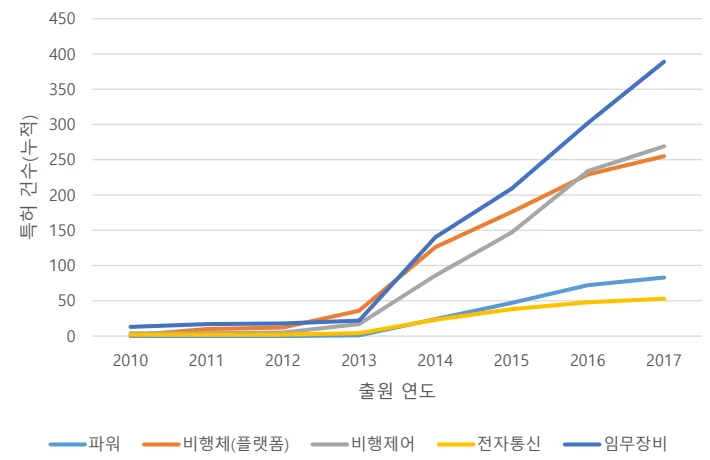
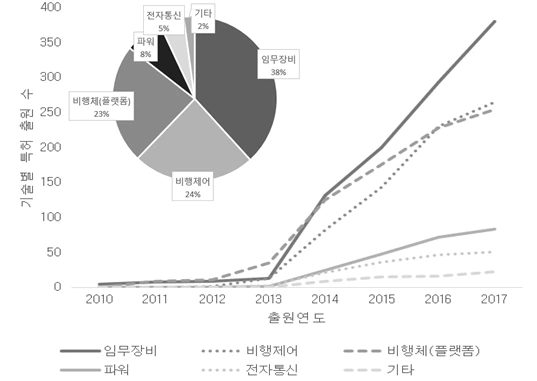
200104 저자 검수 반영: 수치·표5·그림 정정 (김혜주)
원문(fulltext):
- 표5 출원주체별 인용건수: 저자 정정본으로 재제작(기업 72.3%·개인 17.4%·대학 7.5%·
  공공 2.8%, 국가별 37/27.4/22.7/7.9/2/3%) — 구 표(62.3% 등·대학 국가분해) 대체
- 본문 % 수치 동일 정정, 표2 캡션 'IPC 별 DJI 특허 현황(상위 5개)'로
- 그림2(기술별 출원 누적건수): 저자 제공 신규 차트로 교체
- 그림 오배치 교정: 그림1↔매출차트(fig1), 그림2 자리의 네트워크맵 제거,
  그림5를 물리학(G) 네트워크(f-024-004)로, 고아 figure 제거

요약(cases):
- 인용 % 4건 정정(62.3→72.3, 23.7→17.4, 10.2→7.5, 3.8→2.8)
- 저자 요청 문장 재구성 2건(— 대시 제거: R&D 투자 문장, 미국특허 인용 문장)

검수자료: itm-cases/수정의견/김혜주_원문·웹페이지 수정 요청. 수정본 docx 재생성 완료.

diff --git a/fulltext/200104/index.html b/fulltext/200104/index.html
@@ -74,8 +74,8 @@
 <h2>제 2 장 연구대상</h2>
 <h3>2.1 DJI의 성장</h3>
 <p>DJI(大疆创新, SZ DJI Technology Co., Ltd.)는 2006 년, 왕타오(Frank Wang)가 중국 선전에서 설립된 회사로, 세계적인 드론 연구개발 및 생산기업이다. 뛰어난 드론 제조 기술과 R&amp;D 역량, 세련된 디자인, 경쟁력 있는 가격으로 드론 시장에서 독보적인 위치를 점하고 있으며, 출시하는 제품마다 시장에 새로운 표준을 제시하고 있다. 드론 핵심부품인 FC(Flight Controller)를 제작하는 일부터 시작해서 인공지능과 자체 정보처리 기능을 탑재한 완제품 제작까지 단 3년만이 소요되었을 정도로 DJI는 놀라운 혁신을 이루었다(Ito Asei, 일본 도쿄대 사회과학연구소). DJI는 전체 종업원의 33%에 해당 하는 2600여명을 전문 연구 인력으로 구성하고, 매년 매출액의 7%를 R&amp;D에 투자하는 등 기술력 확보를 최우선으로 하는 기업의 원칙을 고수하고 있다. 이는 “덩치가 커져도 연구 인력 비중 3분의 1을 유지한다”는 CEO의 철학에서도 확인할 수 있다. 이러한 연구개발의 성과로 DJI는 평균 5~6개월마다 혁신적인 제품을 내놓고 있으며, 중국의 대표적인 유니콘기업으로 떠올랐다(송재두, 2018). 창업 초기 불과 10여명이었던 직원 수는 10여년 만에 8,000명을 넘었다. DJI는 2010년 300만위안의 매출에서 2013년 8억 위안, 2015년에는 10억달러를 돌파, 2017년에는 28.3억달러를 달성하며 무서운 속도로 성장했다.</p>
-<p class="ftcap">&lt;그림 2&gt; DJI 매출(단위: billion)</p>
-<figure class="ftfig"><img src="img/fig2.webp" alt=""></figure>
+<p class="ftcap">&lt;그림 1&gt; DJI 매출(단위: billion)</p>
+<figure class="ftfig"><img src="img/fig1.webp" alt=""></figure>
 <p>(DJI는 비상장사로 매출정보는 각종 언론사 보도자료 등을 종합) 2014년에 발표한 골드만삭스의 자료에서도 DJI는 세계 상업용 드론시장의 70%를 점유하며 2위 기업인 Parrot을 큰 격차로 따돌리고 있다는 것을 확인할 수 있다. 드론시장 조사업체 DRONII에 따르면 2019년 미국 드론 시장 점유율에서 DJI가 차지하는 비율은 무려 76.8%에 달한다.</p>
 <h3>2.2 DJI의 제품개발과 시장창출</h3>
 <p>DJI는 혁신적인 제품개발을 통해 시장을 개척해 왔다. DJI는 군수용에 국한되어 있던 협소한 드론 시장을 개인〮산업〮공공의 민수용품으로 확장시켰다. 초보자도 사용하기 편리하게 UI/UX를 제고하여 소비자층을 전문가에서 비전문가로 확대했다. 초기 드론 분야는 완제품이라는 개념이 없었고, 개인이 부품을 찾아 조립하고 필요한 소프트웨어 코드를 직접 다운로드 받아야 하는 등 DIY 방식이 주를 이루고 있어 소비자들의 편의성이 매우 낮았다(Fobes, 2015). DJI는 별도의 조립 없이 바로 비행이 가능하고, 각종 센서와 조종 송수신기, 카메라와 영상 송수신기까지 장착한 일체형 완제품 드론인 팬텀을 출시하여 소비자의 큰 반향을 불러일으켰다. DJI는 영상촬영 드론에 특화된 비행제어기술, 방진기술, 카메라 기술 등 핵심 기술의 자체개발에 성공했으며, 최근 모션 인식 등의 차세대 드론 기술개발에도 적극적으로 투자하고 있다(백서인, 손은정, 김지은, 2019). 이뿐 아니라 산업전방위로 사업영역을 넓히고 있다. 밸류체인 구조를 살펴보면, DJI는 드론산업의 업스트림(원자재, 부품생산 제조), 미들스트림(시스템 모듈, 주변시설과 드론 완제품의 연구 개발과 제조), 다운스트림(각종 서비스)에 이르기까지 거의 전 분야에서 활약하고 있다(艾瑞咨询(2016)). 최근 DJI는 드론 플랫폼을 개발하여 토탈 솔루션 기업으로 큰 성장의 흐름을 이어가고 있다. 정보를 취합하는 사업영역에서 드론은 매우 효율적인 도구이기에 DJI는 플랫폼 기업으로 성장할 잠재력을 가지고 있다. DJI는 SDK(Software Development Kit: 소프트웨어 개발도구) 개발 플랫폼을 제공하여 전세계 개발자들이 DJI 플랫폼에 모이도록 한다. 비행작업을 수행하고 데이터를 관리하는 스테이션 프로(GS Pro), 산업용 드론 통합관리를 위한 플라이트 허브(Flight Hub), 지형데이터 맵핑 및 분석 소프트웨어인 DJI 테라(DJI Terra) 등을 공개하며 드론 플랫폼 생태계를 확장하고 있다. 기업은 이러한 솔루션을 활용하여 에너지, 안전, 건설 등의 다양한 임무에 DJI 드론을 활용하고 있다.</p>
@@ -89,7 +89,7 @@
 <figure class="ftfig"><img src="img/t1.webp" alt=""></figure>
 <p>국가별 특허출원 수는 중국이 39%로 가장 많았고, 미국이 29% 일본 26% 유럽이 5%로 나타났다. 초기에는 자국(중국) 출원이 다수를 차지하였으나, 2016 년 이후 중국 단독 특허 수는 거의 증가하지 않았다. 점차 시간이 갈수록 자국 단독 특허 없이 바로 PCT 로 출원하고 이후 재차 미국에 출원하는 형태로 출원 전략을 변경하며 실제 드론 시장에서의 법적 보호를 강화해 나간 것으로 보인다. DJI 가 본격적으로 제품을 내놓으며 특허가 급증하는 시기인 2014년 이후로 미국 특허가 빠르게 증가하는 것을 볼 수 있었다. 특허는 속지주의의 원칙상 반드시 특허권을 획득하고자 하는 나라에 출원하여 권리를 취득해야 해당국에서 독점적, 배타적 권리를 확보할 수 있다. 이를 고려했을 때 미국을 전략적인 시장으로 고려하여 미국 진출을 주요하게 판단한다는 것을 알 수 있다. 결과적으로 2015 년 당시에 DJI 매출의 70%는 아시아 밖의 지역에서 올리고 있었고, 2017년 해외매출액의 비중은 전체 매출의 80%를 차지했다(Shao, 2015; 오광진, 2018).</p>
 <p>DJI 가 출원한 특허를 메인 IPC 로(IPC 4 자리) 분류해 빈도수가 많은 순서로 정렬해 보았다. IPC 기반의 분석에 따르면 DJI 의 특허는 기본적으로 비행분야(B64), 통신분야(H04), 제어조정 분야(G05), 전자사진 분야(G03), 기계요소 분야(F16)에 집중되어 있음을 확인할 수 있다. B64 는 ‘항공기; 비행; 우주공학’ 기술로 경항공기, 비행기, 헬리콥터 등에 대한 기술을 포함하고 있다. 해당 코드(B64)에서 출원한 특허가 22%에 달했는데, DJI 의 드론기술이 비행체의 경량화와 배터리의 지속성, 속도·조종 등 항공비행 기술과 상당히 유사하기 때문인 것으로 볼 수 있다. H04 는 ‘전기통신기술’로 방송통신, 무선통신 네트워크를 포함하며, G05 는 ‘제어;조정’으로 무선항행 시스템의 주파수를 조정하는 조정계를 포함하고 있다. F16 로 구분된 특허는 드론을 지지하는 장비에 관한 특허였다.</p>
-<p class="ftcap">&lt;표 2&gt; 메인 IPC 별 DJI 특허 현황</p>
+<p class="ftcap">&lt;표 2&gt; IPC 별 DJI 특허 현황(상위 5개)</p>
 <figure class="ftfig"><img src="img/t2.webp" alt=""></figure>
 <h3>3.3 기술별 분석</h3>
 <p>DJI 의 보유 특허 현황을 더욱 깊이 살펴보기 위해 특허법률사무소의 자료를 참고하여 기술분류포를 도출했다.</p>
@@ -98,7 +98,7 @@
 <figure class="ftfig"><img src="img/t3b.webp" alt=""></figure>
 <p>검색을 통해 도출된 DJI 의 특허를 &lt;표3&gt;을 기준으로 파워, 비행체(플랫폼), 비행제어, 전자통신, 임무장비, 지상지원장비, 서비스 이상 7 개의 기술항목으로 분류한 후, 무인기본체의 5 개 주요 기술의 연도별 출원 경향을 살펴보았다. 분석 결과, 임무장비 기술과 관련된 특허가 약 38.3%로 가장 많았으며, 비행제어(23.9%), 비행체(플랫폼)(23.4%), 파워(7.5%), 전자통신(4.8%) 특허가 그 뒤를 따랐다.</p>
 <p class="ftcap">&lt;그림 2&gt; DJI 기술별 특허 출원 누적건수</p>
-<figure class="ftfig"><img src="img/f-023-002.webp" alt=""></figure>
+<figure class="ftfig"><img src="img/fig2.webp" alt=""></figure>
 <p>DJI 특허 건수의 증가와 함께 특허 분야도 확장되고 있음을 알 수 있었다. 기술별 특허출원 누적건수를 보면 2013 년까지 비행체(플랫폼) 관련 하드웨어 구성에 대한 출원이 많았으나, DJI 가 본격적으로 특허출원에 열을 올리기 시작한 2014년 이후로는 임무장비기술이 전체 출원 건수를 견인하고 있다. 센서, 카메라(촬영), 짐벌, 분사장치, 데이터 저장 장치 등에 대한 관심이 높아지고 있음을 알 수 있다. 향후 DJI 의 임무장비 융합기술에 대한 지식재산권 생산이 지속적으로 증가하고, 이것을 드론 관련 서비스에 활용할 것으로 예측할 수 있다.</p>
 <p>임무장비로 분류된 특허의 내용을 구체적으로 살펴보면 카메라, 짐벌 등 촬영기술에 대한 특허가 압도적이다. 2015 년 이후로는 순수 이미지처리 및 데이터 저장기술 등 소프트웨어 기술도 다수 출원이 진행되었다. 분사장치 등 농업용 임무장비에 관한 기술 출원도 점차 증가하고 있으며, 조종기 등 지상지원장비 기술 특허도 점차 비중이 커지고 있는 추세이다. 소수이지만 드론을 활용한 가상 관광(Virtual Sightseeing) 등 서비스에 관한 특허출원도 눈에 띈다. 점차 DJI 의 특허 적용 대상이 드론 제작에 한정되지 않는 포괄적인 기술 내용을 포함해가고 있음을 보여준다.</p>
 <h3>3.4 인용특허 네트워크 분석</h3>
@@ -108,10 +108,9 @@
 <p>이러한 인용, 피인용 특허 비중은DJI의 기술이 원천기술의 성격보다는 선행기술과 연계하여 응용/개량적으로 개발된 기술의 성격이 강하다는 것을 의미한다. 인용 특허의 비중이 높은 것은 항공기 제작기술 등 기존 기술에 대한 특허 인용이 많기 때문이다. 소형 드론은 항공기 및 군용 무인기의 항법, 제어 및 하드웨어 설계, 제작기술을 기반으로 한다. 민간 상업용 드론 산업은 비교적 새로운 분야이지만 기존의 항공우주분야의 원천기술과 상당히 유사하여 범위가 확장된 응용/개량 기술이라는 측면으로도 생각할 수 있다.</p>
 <p class="ftcap">&lt;표 4&gt; 기술성숙도별 특허 수(비중)</p>
 <figure class="ftfig"><img src="img/t4.webp" alt=""></figure>
-<p>(백서인 외 5 인, 2018, 2018 년 중국(중화권) 첨단기술 모니터링 및 DB 구축사업 참고) 이번에는 DJI가 인용한 특허의 출원인을 구분하여 봄으로써 기술이 이동하며 발전하는 양태를 분석해보았다. 특허 데이터는 출원 주체에 의해 표명된 기술이기 때문에 혁신의 핵심 주체와 주체들 간 매개 관계를 분석하는데 유용하게 사용될 수 있다. DJI가 인용한 약 2만건의 특허를 출원인으로 분류했다. 출원인 분류 기준은 크게 기업, 대학, 공공연구소 및 정부기관, 개인으로 4가지이다. 세부적으로 기업과 대학은 국가별로 구분을 진행했고 분석결과는 &lt;표 5&gt;에 제시되어 있다. 출원인 식별이 불가능한 건수를 제외하고 총 18,638건을 분석한 결과 기업 특허를 인용한 경우가 62.3%로 가장 많았고, 개인이 23.7%, 대학이 10.2%, 공공연구소가 3.8%를 차지하고 있었다. 이를 통해 DJI의 기술 생성에 있어 기업의 역할이 가장 크다는 것을 파악할 수 있다. 기업 인용 특허 중 3분의 1 이상이 미국 기업의 특허였다. DJI 특허 1100여건이 미국 기업 특허 4900건 이상을 인용했다. 즉, DJI의 특허 1건 당 평균 4개의 미국 기술을 인용했다. 일본 기업의 특허 인용 비중도 3000건 이상으로 매우 높게 나타났다. DJI의 기술과 지식의 축적에 있어 자국(중국)을 제외한다면, 미국기업과 일본기업이 핵심적인 역할을 했음을 의미한다. 그 다음으로는 개인이 DJI의 기술 생성에 영향을 미쳤으며, 대학과 정부 및 연구소는 이에 비해 기술 지식의 교류가 적었다.</p>
+<p>(백서인 외 5 인, 2018, 2018 년 중국(중화권) 첨단기술 모니터링 및 DB 구축사업 참고) 이번에는 DJI가 인용한 특허의 출원인을 구분하여 봄으로써 기술이 이동하며 발전하는 양태를 분석해보았다. 특허 데이터는 출원 주체에 의해 표명된 기술이기 때문에 혁신의 핵심 주체와 주체들 간 매개 관계를 분석하는데 유용하게 사용될 수 있다. DJI가 인용한 약 2만건의 특허를 출원인으로 분류했다. 출원인 분류 기준은 크게 기업, 대학, 공공연구소 및 정부기관, 개인으로 4가지이다. 세부적으로 기업과 대학은 국가별로 구분을 진행했고 분석결과는 &lt;표 5&gt;에 제시되어 있다. 출원인 식별이 불가능한 건수를 제외하고 총 18,638건을 분석한 결과 기업 특허를 인용한 경우가 72.3%로 가장 많았고, 개인이 17.4%, 대학특허 인용이 7.5%, 공공연구소가 2.8%를 차지하고 있었다. 이를 통해 DJI의 기술 생성에 있어 기업의 역할이 가장 크다는 것을 파악할 수 있다. 기업 인용 특허 중 3분의 1 이상이 미국 기업의 특허였다. DJI 특허 1100여건이 미국 기업 특허 4900건 이상을 인용했다. 즉, DJI의 특허 1건 당 평균 4개의 미국 기술을 인용했다. 일본 기업의 특허 인용 비중도 3000건 이상으로 매우 높게 나타났다. DJI의 기술과 지식의 축적에 있어 자국(중국)을 제외한다면, 미국기업과 일본기업이 핵심적인 역할을 했음을 의미한다. 그 다음으로는 개인이 DJI의 기술 생성에 영향을 미쳤으며, 대학과 정부 및 연구소는 이에 비해 기술 지식의 교류가 적었다.</p>
 <p class="ftcap">&lt;표 5&gt; 출원 주체별 특허 인용건수</p>
-<figure class="ftfig"><img src="img/t5a.webp" alt=""></figure>
-<figure class="ftfig"><img src="img/t5b.webp" alt=""></figure>
+<figure class="ftfig"><img src="img/t5.webp" alt=""></figure>
 <p>특허의 건수가 증가함에 따라 인용문헌의 개수도 증가하는 추세를 보였다. 2014년에는 일본기업의 특허 인용건수가 많은데, 이것은 Canon과 같은 일본기업의 카메라 및 이미지 처리 기술에 대한 인용이 많기 때문이다. 미국의 경우 꾸준히 많은 건수의 인용문헌수가 확인되는데 이것을 더 자세히 들여다 보면, Honeywell, Boeing와 같은 항공우주 관련 기업과 글로벌 통신 기업들의 특허를 가장 많이 인용한 것으로 나왔다. DJI가 미국과 일본을 비롯한 외부로부터의 선행 특허기술을 적극적으로 인용했음을 알 수 있다. 또한 중국기업 인용건수의 높은 증가율이 눈에 띄는데, 이 중에서도 DJI 자사 인용문헌 수가 매우 높았다. DJI가 자사의 특허를 인용한 문헌수가 중국 전체 기업 특허를 인용한 수의 40% 이상이었으며, 매년 DJI 자사 인용 특허가 빠르게 증가하는 모습을 보였다. DJI가 미국, 일본 등 선진국의 드론 관련 기술지식을 흡수하고 핵심 기술을 확보한 후 자사 인용을 통해 권리를 강화해 나가는 것으로 짐작할 수 있다.</p>
 <p class="ftcap">&lt;그림 3&gt; 연도별 특허 인용건수 추이</p>
 <figure class="ftfig"><img src="img/fig3.webp" alt=""></figure>
@@ -120,9 +119,8 @@
 <p class="ftcap">&lt;그림 4&gt; 처리조작 기술(IPC: B) 네트워크 시각화</p>
 <figure class="ftfig"><img src="img/fig04auto.webp" alt=""></figure>
 <p>&lt;그림 5&gt;의 G(물리학) 기술 분류의 네트워크 분석에서는 제어, 조정과 측정기술의 빈도수가 가장 높았다. 해당 기술도 마찬가지로 미국기업과 연결되어 있는 링크의 굵기가 가장 굵은 것으로 확인되어, 미국기업의 기술지식 수용이 진행된 것을 확인할 수 있었다. 눈에 띄는 부분은 전자사진기술, 광학기술 부분으로 일본기업과의 연결관계가 가장 강하게 나타났다. 이는 드론의 항공 촬영기술과 직접적으로 연관되어 있는 기술이다. DJI가 촬영 기술과 관련된 부분은 일본기업에 강하게 영향 받았다는 것을 알 수 있다. 해당 분야는 일본이 전통적 강자임을 확인할 수 있었다.</p>
-<figure class="ftfig"><img src="img/f-025-006.webp" alt=""></figure>
 <p class="ftcap">&lt;그림 5&gt; 물리학 기술(IPC: G) 네트워크 시각화</p>
-<figure class="ftfig"><img src="img/f-026-008.webp" alt=""></figure>
+<figure class="ftfig"><img src="img/f-024-004.webp" alt=""></figure>
 <p>많았고 전력의 발전 기술도 다수 보였다. 전기통신기술은 화상통신, 촬영 데이터 관련 기술과 연관되어있다. 전기통신기술은 일본기업과의 연결관계가 가장 강하며, 미국기업과의 관계도 강하게 나타났다. 화상통신과 촬영 데이터 통신기술에 있어 일본과 미국기업이 중요한 기술을 보유하고 있음을 알 수 있었다. 전력의 발전은 드론의 배터리와 관련된 기술인데 해당 기술은 중국기업(중국기업+DJI) 기술의 인용이 가장 많았다. 일반적으로 드론은 리튬폴리머(LiPo) 배터리를 사용한다. 리튬폴리머는 점차 활용이 증가될 것으로 예측되는 차세대 전지이다. 인용 네트워크 분석을 통해 이 리튬폴리머 배터리 기술에서 중국이 높은 기술력과 경쟁력을 보유하고 있다는 것을 알 수 있다.</p>
 <p class="ftcap">&lt;그림 6&gt; 전기 기술(IPC: H) 네트워크 시각화</p>
 <figure class="ftfig"><img src="img/fig06auto.webp" alt=""></figure>

diff --git a/cases/200104.html b/cases/200104.html
@@ -78,7 +78,7 @@
 
 <h2>2. 연구대상: DJI의 성장과 시장창출</h2>
 <h3>2.1 DJI의 성장</h3>
-<p>DJI(SZ DJI Technology Co., Ltd.)는 2006년 왕타오(Frank Wang)가 중국 선전에서 설립한 드론 연구개발·생산기업이다. 드론 핵심부품인 FC(Flight Controller) 제작에서 시작해 인공지능과 자체 정보처리 기능을 탑재한 완제품 제작까지 단 3년 만에 도달했다. 전체 종업원의 33%에 해당하는 2,600여 명을 전문 연구 인력으로 구성하고 매년 매출액의 7%를 R&amp;D에 투자한다 — "덩치가 커져도 연구 인력 비중 3분의 1을 유지한다"는 CEO의 철학이다. 매출은 2010년 300만 위안에서 2013년 8억 위안, 2015년 10억 달러 돌파, 2017년 28.3억 달러로 무서운 속도로 성장했다. 2014년 골드만삭스 자료에서 DJI는 세계 상업용 드론시장의 70%를 점유하며 2위 Parrot을 큰 격차로 따돌렸고, 드론시장 조사업체 DRONII에 따르면 2019년 미국 드론 시장에서 DJI의 점유율은 무려 76.8%에 달한다.</p>
+<p>DJI(SZ DJI Technology Co., Ltd.)는 2006년 왕타오(Frank Wang)가 중국 선전에서 설립한 드론 연구개발·생산기업이다. 드론 핵심부품인 FC(Flight Controller) 제작에서 시작해 인공지능과 자체 정보처리 기능을 탑재한 완제품 제작까지 단 3년 만에 도달했다. 전체 종업원의 33%에 해당하는 2,600여 명을 전문 연구 인력으로 구성하고, 매년 매출액의 7%를 R&amp;D에 투자하는 등 기술력 확보 최우선 원칙을 고수한다. "덩치가 커져도 연구 인력 비중 3분의 1을 유지한다"는 것이 CEO의 철학이다. 매출은 2010년 300만 위안에서 2013년 8억 위안, 2015년 10억 달러 돌파, 2017년 28.3억 달러로 무서운 속도로 성장했다. 2014년 골드만삭스 자료에서 DJI는 세계 상업용 드론시장의 70%를 점유하며 2위 Parrot을 큰 격차로 따돌렸고, 드론시장 조사업체 DRONII에 따르면 2019년 미국 드론 시장에서 DJI의 점유율은 무려 76.8%에 달한다.</p>
 
 <h3>2.2 DJI의 제품개발과 시장창출</h3>
 <p>초기 드론 분야는 완제품 개념이 없어 개인이 부품을 조립하고 소프트웨어 코드를 직접 다운로드해야 하는 DIY 방식이 주를 이뤘다. DJI는 별도의 조립 없이 바로 비행이 가능하고 각종 센서, 조종 송수신기, 카메라와 영상 송수신기까지 장착한 일체형 완제품 드론 '팬텀'을 출시해 큰 반향을 불러일으켰다. 군수용에 국한되어 있던 협소한 드론 시장을 개인·산업·공공의 민수용품으로 확장시키고, 소비자층을 전문가에서 비전문가로 넓힌 것이다. 최근에는 SDK 개발 플랫폼과 GS Pro, 플라이트 허브(Flight Hub), DJI 테라(DJI Terra) 등을 공개하며 드론 플랫폼 생태계를 확장하는 토탈 솔루션 기업으로 성장하고 있다.</p>
@@ -92,7 +92,7 @@
 
 <h3>3.4.1 인용특허 양적 분석 — 응용·개량기술과 외부지식의 흡수</h3>
 <p>DJI의 총 인용문헌수는 약 2만 건, 피인용문헌수는 약 5천 건으로 인용문헌수가 4배가량 많았다. 이는 DJI의 기술이 원천기술보다는 선행기술과 연계하여 응용·개량적으로 개발된 기술의 성격이 강하다는 것을 의미한다. 소형 드론은 항공기 및 군용 무인기의 항법, 제어 및 하드웨어 설계, 제작기술을 기반으로 하기 때문이다.</p>
-<p>인용특허의 출원인을 분류하면 기업 특허 인용이 62.3%로 가장 많았고 개인 23.7%, 대학 10.2%, 공공연구소 3.8% 순이었다. 기업 인용 특허 중 3분의 1 이상이 미국 기업의 특허로, DJI 특허 1,100여 건이 미국 기업 특허 4,900건 이상을 인용했다 — 특허 1건당 평균 4개의 미국 기술을 인용한 셈이다. 미국은 Honeywell, Boeing 같은 항공우주 기업과 글로벌 통신 기업, 일본은 Canon 같은 카메라·이미지 처리 기업의 인용이 많았다. 한편 중국기업 인용 중 40% 이상이 DJI 자사 인용이었으며 매년 빠르게 증가했는데, 이는 선진국의 기술지식을 흡수하고 핵심 기술을 확보한 후 자사 인용을 통해 권리를 강화해 나가는 것으로 짐작할 수 있다.</p>
+<p>인용특허의 출원인을 분류하면 기업 특허 인용이 72.3%로 가장 많았고 개인 17.4%, 대학 7.5%, 공공연구소 2.8% 순이었다. 기업 인용 특허 중 3분의 1 이상이 미국 기업의 특허로, DJI 특허 1,100여 건이 미국 기업 특허 4,900건 이상을 인용했다. 특허 1건당 평균 4개의 미국 기술을 인용한 셈이다. 미국은 Honeywell, Boeing 같은 항공우주 기업과 글로벌 통신 기업, 일본은 Canon 같은 카메라·이미지 처리 기업의 인용이 많았다. 한편 중국기업 인용 중 40% 이상이 DJI 자사 인용이었으며 매년 빠르게 증가했는데, 이는 선진국의 기술지식을 흡수하고 핵심 기술을 확보한 후 자사 인용을 통해 권리를 강화해 나가는 것으로 짐작할 수 있다.</p>
 
 <h3>3.4.2 인용특허 네트워크 시각화 — 기술지식은 어디서 왔는가</h3>
 <p>DJI 특허기술의 IPC(상단노드)와 인용특허의 출원 주체(하단노드)를 연결한 네트워크 시각화맵을 보면, 기술 분야별로 지식의 원천이 뚜렷이 갈린다. 처리조작(B) 기술에서는 항공기;비행;우주공학 특허가 압도적으로 많고 미국기업과의 링크가 가장 굵다. 드론의 가장 핵심적인 기술인 항공우주공학에서 미국이 원천기술을 보유하며 지식의 초기 확산자 역할을 수행하고 있다는 의미다.</p>
